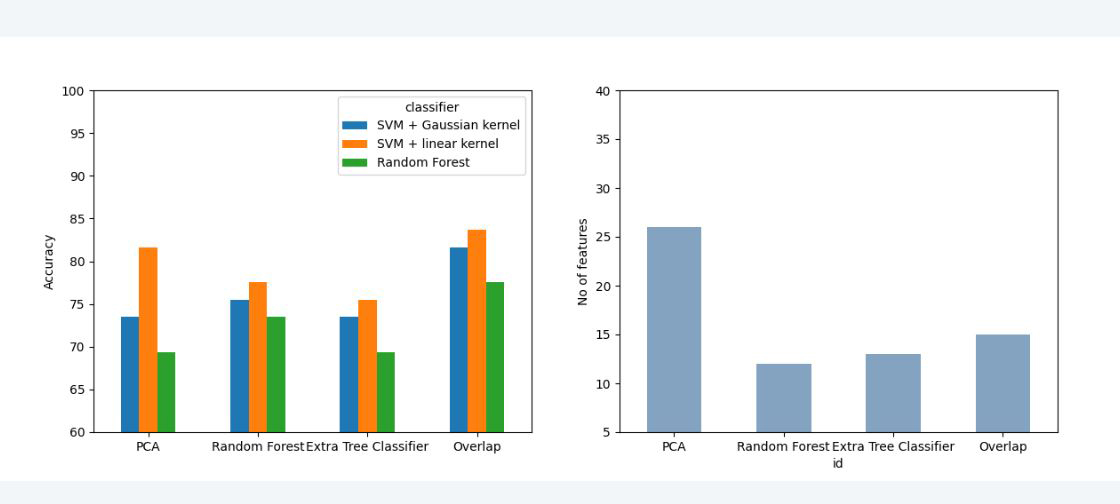
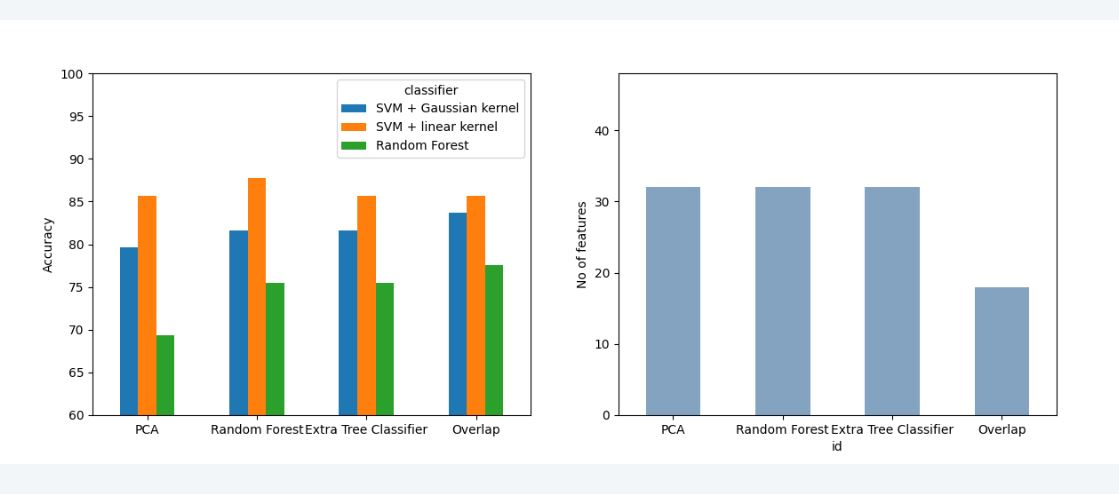
manual change some gene selection methds

diff --git a/manual.php b/manual.php
@@ -38,6 +38,7 @@
   .det-p-head{
     padding: 10px 0 0 0;
   }
+
 </style>
 <body>
   <!--Navigation bar-->
@@ -251,7 +252,6 @@
               <p class="det-p-manual">The data set might also contain missing values. These missing values may sometimes skew the results if not handled properly. Missing data presents various problems. First, the absence of data reduces statistical power, which refers to the probability that the test will reject the null hypothesis when it is false. Second, the lost data can cause bias in the estimation of parameters. Third, it can reduce the representativeness of the samples. Fourth, it may complicate the analysis of the study.</p>
               <p class="det-p-manual">One of the simplest methods to reduce the impact of missing values is to drop the complete sample including the missing values so that it won’t skew the results. However, when the sample size is small, this might not be a good approach. Instead of dropping the whole sample, you can replace the missing value with the average of present values which will be a fair indicator of the missing values.</p> 
             </hgroup>
-            <h4 class="sm-txt-manual">Reference: The prevention and handling of the missing data</h4>
           </div>
         </div>
         <div class="col-md-6" style="margin-top: 30px;">
@@ -365,7 +365,6 @@
         <div class="col-md-6">
           <div class="detail-info">
             <hgroup>
-              <p class="det-p-manual">Classification Result graph at the right to the page shows the accuracy obtained by 6 different classifiers. A classifier is a system where you input data and then obtain outputs related to the grouping (i.e.: classification) in which those inputs belong to. These classifiers take the data set containing only the data of the gene list filtered by p-values and fold changes and train them using these classifiers. The accuracy is shown as percentages in the second column.</p>
               <p class="det-p-manual">The performance of classifiers differs from each data set. Therefore, to proceed further, we select the best 3 classifiers showing the best results out of the 6 classifiers. “Selected Classifiers” refers to these selected methods. They will be used in the next steps of the framework.</p>
             </hgroup>
           </div>
@@ -460,7 +459,7 @@
         <div class="col-md-6">
           <div class="detail-info">
             <hgroup>
-              <p class="det-p-manual">In the first set of graphs, the graph at the right shows the number of genes selected by each feature selection method only (the genes that are also found by another method are excluded in this). The last column refers to the number of “Overlapped” set of genes, that is the genes that are found by all the three methods. The graph at the left shows how the accuracy of the models varies when you only input the gene list selected by each feature selection method only. Here also, we use the same 3 classifiers we used earlier to get the accuracy.</p>
+              <p class="det-p-manual">In the first set of graphs, the graph at the right shows the number of genes selected by each feature selection method. The last column refers to the number of “Overlapped” set of genes, that is the genes that are found by all the three methods. The graph at the left shows how the accuracy of the models varies when you only input the gene list selected by each feature selection method. Here also, we use the same 3 classifiers we used earlier to get the accuracy.</p>
             </hgroup>
           </div>
         </div>
@@ -488,7 +487,7 @@
         <div class="col-md-6">
           <div class="detail-info">
             <hgroup>
-              <p class="det-p-manual">The third section of this page shows the set of the correlation matrix. We plot these, to identify the highly correlated genes. Here, we plot the correlation matrix for the genes that are selected by only one method, for example, if we have selected the best 50 genes by all the 3 feature selection methods and 20 genes out of these can only be found by PCA, we have plotted the correlation matrix for those 20 genes. Likewise, we have repeated the same for the genes found only by the other 2 feature selection methods as well.</p>
+              <p class="det-p-manual">The third section of this page shows the set of the correlation matrix. We plot these, to identify the highly correlated genes. Here, we plot the correlation matrix for the genes that are selected by one method, for example, if we have selected the best 50 genes by all the 3 feature selection methods and 20 genes out of these can be found by PCA, we have plotted the correlation matrix for those 20 genes. Likewise, we have repeated the same for the genes found by the other 2 feature selection methods as well.</p>
             </hgroup>
           </div>
         </div>
@@ -510,9 +509,9 @@
           <div class="detail-info">
             <hgroup>
              <ul style="list-style-type: square; text-align: justify;">
-                <li><b>PCA:</b> Gene lists found only by PCA and not by Random Forest and Extra Tree Classifier.</li>
-                <li><b>Random Forest:</b> Gene lists found only by PCA and not by random forest and Extra Tree Classifier.</li>
-                <li><b>Extra Tree Classifier:</b> You can choose the minimum value of all the values corresponding to a particular gene symbol for each sample.Gene lists found only by Extra Tree Classifier and not by Random Forest and PCA.</li>
+                <li><b>PCA:</b> Gene lists found by PCA.</li>
+                <li><b>Random Forest:</b> Gene lists found by Random Forest.</li>
+                <li><b>Extra Tree Classifier:</b> Gene lists found by Extra Tree Classifier.</li>
               </ul>              
               <p class="det-p-manual">You can choose which data set you want to proceed with by selecting one out of the above 3 lists. Usually, to reduce redundancy, it is recommended to use the gene list with the least correlation, which is the plot with the highest color variation.</p>
             </hgroup>

diff --git a/user_guide.php b/user_guide.php
@@ -357,7 +357,7 @@
               <ul style="list-style-type: square; text-align: justify;">
                 <li>Choose your data set by clicking on the drop-down menu in the “Available Files” tab. The drop-down will show you the list of already uploaded data sets.</li>
                 <li>Choose the corresponding annotation table by clicking on the drop-down menu of the “Annotation Table” tab.</li>
-                <li>Select any Probe Selection method from the drop-down menu of the Probe Selection method.</li>
+                <li>Select any Probe Selection method from the drop-down menu of the Probe Selection method. You can choose 'other' option and upload a custom annotation table also.</li>
                 <li>If you want to proceed without mapping to gene symbols, click “SKIP MAPPING” button.</li>
                 <li>If you want to map the probe_IDs to gene symbols click “SUBMIT”.</li>
                 <li>If you want to get a quick glance at your data set, you can do so by clicking on the “View” button.</li>
@@ -500,7 +500,7 @@
             <hgroup>
               <h3 class="det-txt-manual">Normalization and Imputation</h3>
               <ul style="list-style-type: square; text-align: justify;">
-                <li>Select the scaling method by clicking on the drop-down menu in the scaling tab.</li>
+                <li>Select the normalization method by clicking on the drop-down menu in the scaling tab.</li>
                 <li>Select how you wish to handle the missing values by choosing a method from the Imputation tab.</li>
                 <li>If you are all set, click on “PRE_PROCESS”.</li>
               </ul>
